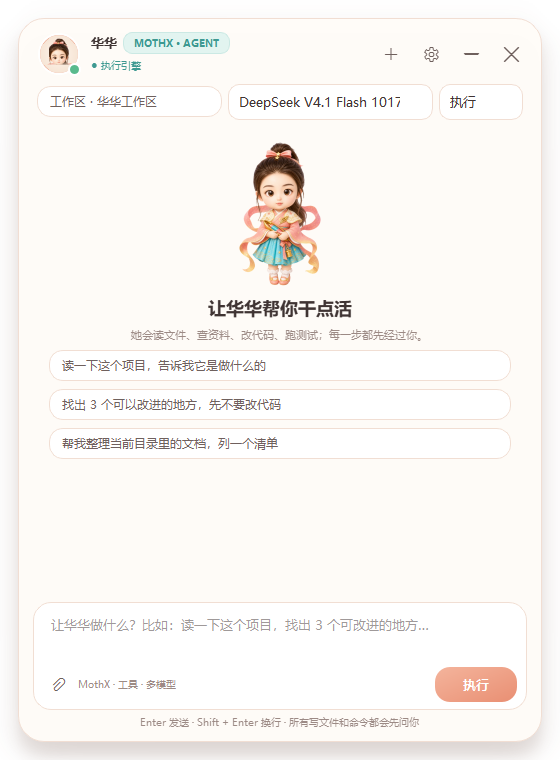
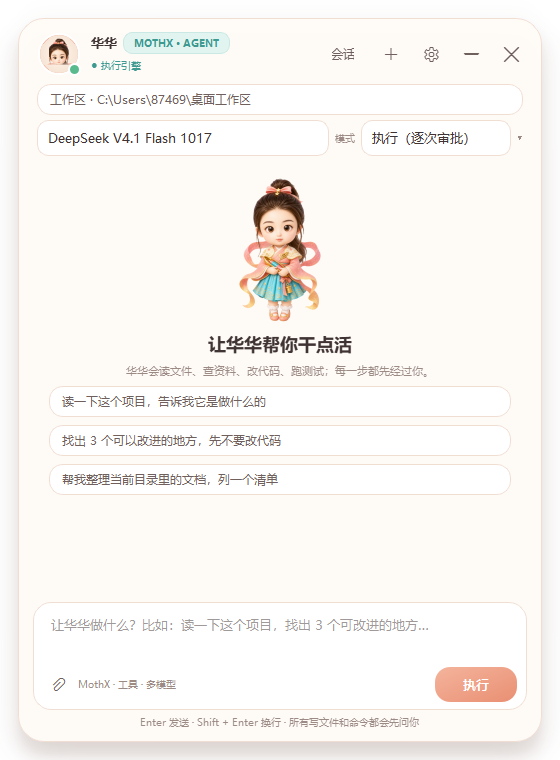
Unify agent workspace, add YOLO and view switching

Changed region(s): [[0.0911, 0.1816, 0.9107, 0.6658], [0.0911, 0.1211, 0.85, 0.2118], [0.5768, 0.0605, 0.6375, 0.0908]]

diff --git a/huahua/agent_window.py b/huahua/agent_window.py
@@ -57,6 +57,16 @@ from .widgets import (
     md_to_html,
 )
 
+DEFAULT_WORKSPACE_NAME = "桌面工作区"
+
+
+def workspace_path(raw: str | None = None) -> Path:
+    """The one canonical path used by both the header and MothX session/new."""
+    p = Path(raw).expanduser() if raw else Path.home() / DEFAULT_WORKSPACE_NAME
+    if not p.is_absolute():
+        p = Path.cwd() / p
+    return p.resolve()
+
 
 # ----------------------------------------------------------------------
 class ToolRow(QFrame):
@@ -335,6 +345,7 @@ class AgentWindow(QWidget):
     pet_state = Signal(str)
     notify_requested = Signal(str, str, str, str)
     settings_requested = Signal()
+    chat_requested = Signal()
     hidden = Signal()
 
     def __init__(self, config: Config):
@@ -404,6 +415,13 @@ class AgentWindow(QWidget):
         self.status_label.setStyleSheet(f"color:{TEAL_DEEP};font-size:10px;")
         col.addWidget(self.status_label)
         hl.addLayout(col, 1)
+        self.session_btn = QPushButton("会话")
+        self.session_btn.setObjectName("Ghost")
+        self.session_btn.setFixedSize(48, 30)
+        self.session_btn.setToolTip("回到聊天 / 生图 / 视频")
+        self.session_btn.setCursor(Qt.CursorShape.PointingHandCursor)
+        self.session_btn.clicked.connect(self.chat_requested.emit)
+        hl.addWidget(self.session_btn)
         self.new_btn = IconButton("plus", "新任务", 30)
         self.new_btn.clicked.connect(self.new_task)
         self.settings_btn = IconButton("settings", "设置", 30)
@@ -412,32 +430,45 @@ class AgentWindow(QWidget):
         self.min_btn.clicked.connect(self.hide)
         self.close_btn = IconButton("close", "收起", 30)
         self.close_btn.clicked.connect(self.hide)
-        for b in (self.new_btn, self.settings_btn, self.min_btn, self.close_btn):
+        for b in (self.session_btn, self.new_btn, self.settings_btn, self.min_btn, self.close_btn):
             hl.addWidget(b)
         root.addWidget(header)
         self._header = header
 
         # context bar
         ctx_wrap = QWidget()
-        cl = QHBoxLayout(ctx_wrap)
+        cl = QVBoxLayout(ctx_wrap)
         cl.setContentsMargins(18, 0, 18, 9)
-        cl.setSpacing(6)
+        cl.setSpacing(5)
         self.workspace_btn = QPushButton("工作区 · 未选择")
         self.workspace_btn.setObjectName("Chip")
         self.workspace_btn.setCursor(Qt.CursorShape.PointingHandCursor)
+        self.workspace_btn.setToolTip("点击更改工作区（只在这个文件夹内读写）")
         self.workspace_btn.clicked.connect(self.choose_workspace)
-        cl.addWidget(self.workspace_btn, 1)
+        cl.addWidget(self.workspace_btn)
+        row = QHBoxLayout()
+        row.setSpacing(6)
         self.model_combo = QComboBox()
-        self.model_combo.setFixedWidth(205)
+        self.model_combo.setMinimumWidth(220)
         self.model_combo.setToolTip("MothX 模型")
         self.model_combo.currentIndexChanged.connect(self._model_changed)
-        cl.addWidget(self.model_combo)
+        row.addWidget(self.model_combo, 1)
+        mode_label = QLabel("模式")
+        mode_label.setObjectName("Tiny")
+        row.addWidget(mode_label)
         self.mode_combo = QComboBox()
-        self.mode_combo.addItem("执行", "agent")
-        self.mode_combo.addItem("只读计划", "plan")
-        self.mode_combo.setFixedWidth(84)
+        self.mode_combo.addItem("执行（逐次审批）", "agent")
+        self.mode_combo.addItem("计划（只读）", "plan")
+        self.mode_combo.addItem("YOLO（完全放开）", "yolo")
+        self.mode_combo.setFixedWidth(150)
+        self.mode_combo.setToolTip("执行：逐次审批；只读计划：不改文件；YOLO：完全放开，不推荐")
         self.mode_combo.currentIndexChanged.connect(self._mode_changed)
-        cl.addWidget(self.mode_combo)
+        self._last_mode = "agent"
+        row.addWidget(self.mode_combo)
+        arrow = QLabel("▾")
+        arrow.setStyleSheet(f"color:{MUTED};font-size:11px;")
+        row.addWidget(arrow)
+        cl.addLayout(row)
         root.addWidget(ctx_wrap)
 
         # timeline
@@ -478,7 +509,7 @@ class AgentWindow(QWidget):
         ccl.addWidget(self.attach_host)
         self.edit = QPlainTextEdit()
         self.edit.setObjectName("Composer")
-        self.edit.setPlaceholderText("让华华做什么？比如：读一下这个项目，找出 3 个可改进的地方…")
+        self.edit.setPlaceholderText(f"让{theme.character_name(self.character)}做什么？比如：读一下这个项目，找出 3 个可改进的地方…")
         self.edit.setFixedHeight(52)
         self.edit.setVerticalScrollBarPolicy(Qt.ScrollBarPolicy.ScrollBarAlwaysOff)
         self.edit.installEventFilter(self)
@@ -532,15 +563,15 @@ class AgentWindow(QWidget):
         self.empty_art.setAlignment(Qt.AlignmentFlag.AlignCenter)
         self.empty_art.setFixedHeight(150)
         lay.addWidget(self.empty_art)
-        t = QLabel("让华华帮你干点活")
-        t.setObjectName("Title")
-        t.setAlignment(Qt.AlignmentFlag.AlignCenter)
-        lay.addWidget(t)
-        s = QLabel("她会读文件、查资料、改代码、跑测试；每一步都先经过你。")
-        s.setObjectName("Hint")
-        s.setAlignment(Qt.AlignmentFlag.AlignCenter)
-        s.setWordWrap(True)
-        lay.addWidget(s)
+        self.empty_title = QLabel()
+        self.empty_title.setObjectName("Title")
+        self.empty_title.setAlignment(Qt.AlignmentFlag.AlignCenter)
+        lay.addWidget(self.empty_title)
+        self.empty_sub = QLabel()
+        self.empty_sub.setObjectName("Hint")
+        self.empty_sub.setAlignment(Qt.AlignmentFlag.AlignCenter)
+        self.empty_sub.setWordWrap(True)
+        lay.addWidget(self.empty_sub)
         for text in (
             "读一下这个项目，告诉我它是做什么的",
             "找出 3 个可以改进的地方，先不要改代码",
@@ -576,25 +607,27 @@ class AgentWindow(QWidget):
         self.model_combo.blockSignals(True)
         self.model_combo.clear()
         for m in self.runtime.models:
-            self.model_combo.addItem(f"{m['name']}  ·  {m['id']}", m["id"])
+            self.model_combo.addItem(str(m.get("name") or m["id"]), m["id"])
+            self.model_combo.setItemData(self.model_combo.count() - 1, str(m["id"]), Qt.ItemDataRole.ToolTipRole)
         wanted = str(self.config.get("mothx.model", "") or self.config.active_profile().get("chat_model", ""))
         idx = self.model_combo.findData(wanted)
         if idx >= 0:
             self.model_combo.setCurrentIndex(idx)
         self.model_combo.blockSignals(False)
         mode = str(self.config.get("mothx.mode", "agent") or "agent")
+        self.mode_combo.blockSignals(True)
         midx = self.mode_combo.findData(mode)
         if midx >= 0:
             self.mode_combo.setCurrentIndex(midx)
+        self.mode_combo.blockSignals(False)
+        self._last_mode = str(self.mode_combo.currentData() or "agent")
         self._refresh_workspace()
 
     def _refresh_workspace(self):
         raw = str(self.config.get("mothx.workspace", "") or "").strip()
-        if not raw:
-            raw = str(Path.home() / "华华工作区")
-        p = Path(raw)
-        self.workspace_btn.setText(f"工作区 · {p.name or p}")
-        self.workspace_btn.setToolTip(str(p))
+        p = workspace_path(raw or None)
+        self.workspace_btn.setText(f"工作区 · {p}")
+        self.workspace_btn.setToolTip(f"{p}\n点击更改（只在这个文件夹内读写）")
         self.empty_art.setPixmap(
             theme.pixmap("idle", self.character).scaled(
                 150, 150, Qt.AspectRatioMode.KeepAspectRatio, Qt.TransformationMode.SmoothTransformation
@@ -603,7 +636,7 @@ class AgentWindow(QWidget):
 
     def _workspace(self) -> Path:
         raw = str(self.config.get("mothx.workspace", "") or "").strip()
-        p = Path(raw) if raw else Path.home() / "华华工作区"
+        p = workspace_path(raw or None)
         p.mkdir(parents=True, exist_ok=True)
         if str(p) != str(self.config.get("mothx.workspace", "")):
             self.config.set("mothx.workspace", str(p))
@@ -613,9 +646,9 @@ class AgentWindow(QWidget):
 
     def choose_workspace(self):
         start = str(self._workspace())
-        d = QFileDialog.getExistingDirectory(self, "选择华华的工作区", start)
+        d = QFileDialog.getExistingDirectory(self, "选择工作区", start)
         if d:
-            self.config.set("mothx.workspace", d)
+            self.config.set("mothx.workspace", str(workspace_path(d)))
             self.config.save()
             self.controller.new_task()
             self._refresh_workspace()
@@ -627,9 +660,25 @@ class AgentWindow(QWidget):
             self.controller.set_model(str(model))
 
     def _mode_changed(self, _idx: int):
-        mode = self.mode_combo.currentData()
-        if mode:
-            self.controller.set_mode(str(mode))
+        mode = str(self.mode_combo.currentData() or "agent")
+        if mode == "yolo" and self._last_mode != "yolo":
+            answer = QMessageBox.warning(
+                self,
+                "开启 YOLO 模式？",
+                f"YOLO 会让{theme.character_name(self.character)}直接读写文件、运行命令，不再逐次询问。\n"
+                "只在你完全信任这个工作区时使用。",
+                QMessageBox.StandardButton.Yes | QMessageBox.StandardButton.No,
+                QMessageBox.StandardButton.No,
+            )
+            if answer != QMessageBox.StandardButton.Yes:
+                self.mode_combo.blockSignals(True)
+                idx = self.mode_combo.findData(self._last_mode)
+                self.mode_combo.setCurrentIndex(max(0, idx))
+                self.mode_combo.blockSignals(False)
+                return
+        self._last_mode = mode
+        self.controller.set_mode(mode)
+        self.pet_state.emit("waiting" if mode == "plan" else "tool")
 
     # ------------------------------------------------------------------
     def apply_character(self):
@@ -639,6 +688,9 @@ class AgentWindow(QWidget):
         self.name_label.setText(name)
         self.setWindowTitle(f"{name} · 执行")
         self.setWindowIcon(QIcon(str(theme.character_icon_path(self.character))))
+        self.empty_title.setText(f"让{name}帮你干点活")
+        self.empty_sub.setText(f"{name}会读文件、查资料、改代码、跑测试；每一步都先经过你。")
+        self.edit.setPlaceholderText(f"让{name}做什么？比如：读一下这个项目，找出 3 个可改进的地方…")
         for run in self.findChildren(AgentRunView):
             run.set_character(self.character, name)
         self._refresh_workspace()
@@ -653,7 +705,7 @@ class AgentWindow(QWidget):
     # ------------------------------------------------------------------
     def send(self):
         if self._busy:
-            self.show_toast("华华还在执行，先等一下或点停止")
+            self.show_toast(f"{theme.character_name(self.character)}还在执行，先等一下或点停止")
             return
         text = self.edit.toPlainText().strip()
         if not text:
@@ -836,19 +888,19 @@ class AgentWindow(QWidget):
         self._run.add_approval(data, decide)
         self._scroll_bottom()
         self.pet_state.emit("waiting")
-        self.notify_requested.emit("需要你确认", str(data.get("title") or "华华想执行一个操作"), "", "agent-approval")
+        self.notify_requested.emit("需要你确认", str(data.get("title") or f"{theme.character_name(self.character)}想执行一个操作"), "", "agent-approval")
 
     def _on_question(self, data: dict[str, Any]):
-        question = data.get("question") or "华华想确认一下"
+        question = data.get("question") or f"{theme.character_name(self.character)}想确认一下"
         options = data.get("options") or []
         answer = ""
         if options:
             labels = [o["label"] for o in options]
-            choice, ok = QInputDialog.getItem(self, "华华在问你", question, labels, 0, False)
+            choice, ok = QInputDialog.getItem(self, f"{theme.character_name(self.character)}在问你", question, labels, 0, False)
             if ok and choice:
                 answer = next((o["id"] for o in options if o["label"] == choice), choice)
         else:
-            answer, ok = QInputDialog.getText(self, "华华在问你", question)
+            answer, ok = QInputDialog.getText(self, f"{theme.character_name(self.character)}在问你", question)
             if not ok:
                 answer = ""
         self.controller.answer_question(data.get("request_id"), answer)
@@ -867,7 +919,9 @@ class AgentWindow(QWidget):
         self._end_busy()
         self.pet_state.emit("success" if reason != "cancelled" else "idle")
         if reason != "cancelled":
-            self.notify_requested.emit("任务完成", "点我看看华华做了什么", "", "agent")
+            self.notify_requested.emit(
+                "任务完成", f"点我看看{theme.character_name(self.character)}做了什么", "", "agent"
+            )
             QTimer.singleShot(1800, lambda: self.pet_state.emit("idle"))
         self._finalized = True
         self._scroll_bottom()
@@ -951,7 +1005,7 @@ class AgentWindow(QWidget):
             e.acceptProposedAction()
             self.attachments = [Path(p) for p in paths if Path(p).is_file()][:6]
             self._rebuild_attachments()
-            self.show_toast("文件已放进任务，发送时会一起交给华华")
+            self.show_toast(f"文件已放进任务，发送时会一起交给{theme.character_name(self.character)}")
 
     def shutdown(self):
         self.controller.shutdown()

diff --git a/huahua/settings.py b/huahua/settings.py
@@ -504,7 +504,7 @@ class SettingsDialog(QDialog):
         wh.setContentsMargins(0, 0, 0, 0)
         wh.setSpacing(6)
         self.workspace_edit = QLineEdit()
-        self.workspace_edit.setPlaceholderText("默认：用户目录\\华华工作区")
+        self.workspace_edit.setPlaceholderText("默认：用户目录\\桌面工作区")
         wh.addWidget(self.workspace_edit, 1)
         wb = QPushButton("选择…")
         wb.setObjectName("Ghost")
@@ -1033,7 +1033,13 @@ class SettingsDialog(QDialog):
 
         m = self.draft.setdefault("mothx", {})
         m["runtime_path"] = self.runtime_path.text().strip()
-        m["workspace"] = self.workspace_edit.text().strip()
+        raw_ws = self.workspace_edit.text().strip()
+        if raw_ws:
+            p = Path(raw_ws).expanduser()
+            if not p.is_absolute():
+                p = Path.cwd() / p
+            raw_ws = str(p.resolve())
+        m["workspace"] = raw_ws
 
         s = self.draft["storage"]
         s["output_dir"] = self.output_dir.text().strip() or str(default_output_dir())

diff --git a/huahua/app.py b/huahua/app.py
@@ -76,6 +76,7 @@ class HuaHuaApp(QObject):
         self.agent.pet_state.connect(self._pet_state)
         self.agent.notify_requested.connect(self._notify)
         self.agent.settings_requested.connect(self.open_settings)
+        self.agent.chat_requested.connect(lambda: self.open_chat())
 
     @property
     def character(self) -> str:
@@ -131,7 +132,7 @@ class HuaHuaApp(QObject):
         menu.setStyleSheet(theme.qss())
         a = menu.addAction(f"打开{self.character_name}")
         a.triggered.connect(lambda: self.open_chat())
-        a = menu.addAction("让华华干活…")
+        a = menu.addAction(f"让{self.character_name}干活…")
         a.triggered.connect(self.open_agent)
         a = menu.addAction("画一张图")
         a.triggered.connect(lambda: self.open_chat("image"))

diff --git a/huahua/chat.py b/huahua/chat.py
@@ -262,7 +262,12 @@ class ChatWindow(QWidget):
         title_col.addWidget(self.status_label)
         hl.addLayout(title_col, 1)
 
-        self.agent_btn = IconButton("sparkle", "打开执行任务", 30)
+        self.agent_btn = QPushButton("执行")
+        self.agent_btn.setObjectName("Ghost")
+        self.agent_btn.setFixedSize(46, 30)
+        self.agent_btn.setFont(font(9, QFont.Weight.DemiBold))
+        self.agent_btn.setCursor(Qt.CursorShape.PointingHandCursor)
+        self.agent_btn.setToolTip("切换到执行任务（MothX Agent）")
         self.agent_btn.clicked.connect(self.agent_requested.emit)
         self.new_btn = IconButton("plus", "新对话", 30)
         self.new_btn.clicked.connect(self.new_chat)

diff --git a/huahua/pet.py b/huahua/pet.py
@@ -659,7 +659,7 @@ class PetWindow(QWidget):
         )
         a = menu.addAction("和我聊聊")
         a.triggered.connect(self.chat_requested.emit)
-        a = menu.addAction("让华华干活…")
+        a = menu.addAction(f"让{theme.character_name(self.character)}干活…")
         a.triggered.connect(self.agent_requested.emit)
         a = menu.addAction("画一张图")
         a.triggered.connect(lambda: self.mode_requested.emit("image"))

diff --git a/huahua/mothx/controller.py b/huahua/mothx/controller.py
@@ -150,6 +150,7 @@ class AgentController(QObject):
         if not cwd:
             callback(None, "还没有选择工作区。")
             return
+        cwd = str(Path(cwd).expanduser().resolve())
         Path(cwd).mkdir(parents=True, exist_ok=True)
 
         def start(error: str):

diff --git a/README.md b/README.md
@@ -40,7 +40,9 @@
 - 后台运行 `runtime/mothx.exe acp`，通过 ACP 协议连接；
 - 支持文件读取、命令执行、搜索、MCP、Skills 等 MothX 工具；
 - 工具调用显示成可折叠的小卡片，写文件 / 运行命令会逐次弹出审批；
-- 支持切换模型、只读计划 / 执行模式、工作区选择、停止任务；
+- 支持切换模型、执行 / 只读计划 / YOLO 模式、工作区选择、停止任务；
+- 右上角「会话」切回聊天；聊天右上角「执行」切回任务；
+- 切换华华 / 熙熙后，任务窗口里的标题、提示和桌宠气泡会一起换；
 - 完成 / 需要确认 / 失败都会回到桌宠气泡；
 - 媒体能力（生图、图生图、数字人）仍然走原来的 MoArk 直连，不受影响。
 
@@ -51,6 +53,8 @@ runtime/mothx.exe
 ```
 
 它不提交到 Git 仓库，避免单文件过大；下载地址：<https://github.com/oschina/mothx/releases>。当前按 `v1.3.107` 验证。
+
+首次执行默认工作区是 `用户目录\桌面工作区`；顶部会显示完整路径，点一下可以换。华华和熙熙共用这个工作区，但各自的标题、提示和气泡会跟着角色切换。
 
 ## 直接使用
 

diff --git a/docs/MOTHX_AGENT_DESIGN.md b/docs/MOTHX_AGENT_DESIGN.md
@@ -58,6 +58,10 @@ Serve 仍然值得保留为第二形态：
 - 新增独立的 **执行任务窗口**（`huahua/agent_window.py`），避免把工具/审批塞进原本 468px 的聊天面板；
 - 右键桌宠 →「让华华干活…」、托盘菜单、聊天右上角的 ✦ 按钮都可以打开；
 - 已接通 `runtime/mothx.exe`、ACP 初始化、`session/new`、流式文本、工具卡片、计划卡片、逐次审批、停止、模型选择、工作区、气泡通知；
+- 工作区统一为绝对路径：顶部显示的就是 `session/new` 的 cwd，文件工具和生成结果都落在这里；
+- 工作模式可选 `执行（逐次审批）/ 计划（只读）/ YOLO（完全放开）`，YOLO 会二次确认；
+- 执行窗口右上角「会话」切回聊天，聊天右上角「执行」切回任务；
+- 华华 / 熙熙切换后，任务窗口标题、空状态、输入提示、完成气泡都会跟着换；
 - 媒体能力仍然走原来的 MoArk 直连，不受影响。
 
 已经跑通：运行时启动、ACP 握手、会话创建、流式文本、工具卡片、计划卡片、真实 bash 审批、
